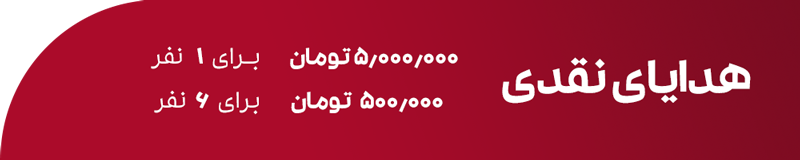
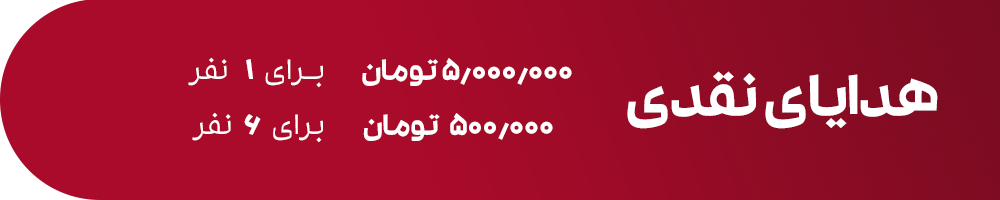
change image jayeze

diff --git a/resources/views/jashn.blade.php b/resources/views/jashn.blade.php
@@ -176,6 +176,13 @@ li:hover .description > p {
 #form{
     display:none;
 }
+
+#banner_jayeze_mobile
+{
+    display: none;
+}
+
+
 @media screen and (max-width:375px) and (min-width:320px){
     #img-des{
         width:35%
@@ -205,6 +212,16 @@ li:hover .description > p {
 
         p{
             text-align: justify;
+        }
+
+        #banner_jayeze_desktop
+        {
+            display: none;
+        }
+
+        #banner_jayeze_mobile
+        {
+            display: block;
         }
     }
     </style>
@@ -248,8 +265,20 @@ li:hover .description > p {
                     <div class="row">
                         <div id="app"></div>
                     </div>
-                    <!----------------------------------------TIMELINE ------------->
 
+                    <div id="banner_jayeze_desktop">
+                        <img src="{{asset('/images/jayeze1.png')}}" class="img-fluid mb-5 mt-5" width="70%" />
+                        <img src="{{asset('/images/jayeze2.png')}}" class="img-fluid mb-5" width="70%"/>
+                        <img src="{{asset('/images/jayeze3.png')}}" class="img-fluid mb-5" width="70%" />
+                    </div>
+                    <div id="banner_jayeze_mobile">
+                        <img src="{{asset('/images/jayeze1_mobile.png')}}" class="img-fluid mb-3 mt-3" />
+                        <img src="{{asset('/images/jayeze2_mobile.png')}}" class="img-fluid mb-3" />
+                        <img src="{{asset('/images/jayeze3_mobile.png')}}" class="img-fluid mb-3" />
+                    </div>
+
+                    <!----------------------------------------TIMELINE ------------->
+                    <!--
                     <ol id="des" class="d-none d-sm-block">
                         <li>
                             <p class="diplome"> 1 هدیه به ارزش <br/>  5,000,000 تومان  </p>
@@ -329,6 +358,7 @@ li:hover .description > p {
                             </div>
                         </li>
                         </ol>
+                    -->
 
                     <!---------------------------- MOBILE  --------------------------------------->
                     <div class="row text-right">
